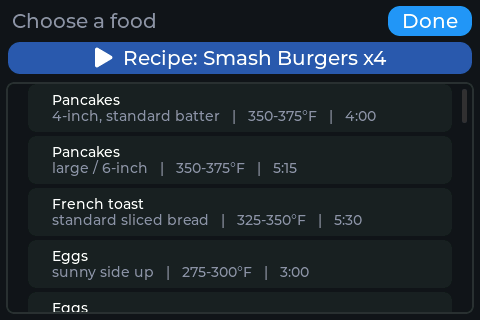
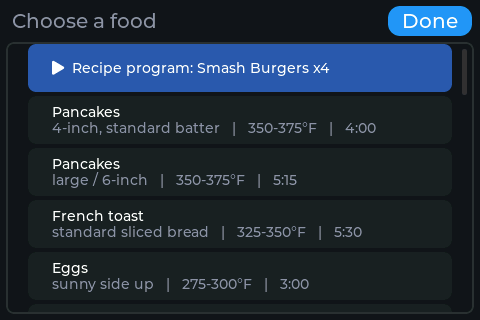
fix: bench UX round — tz picker, stainless is a pan not a preset, foods page
Three live bench critiques from James on the first hardware session:

- Time zone picker: the tap-to-cycle row inside a scrollable list was flaky
  (taps kept registering as scroll-drags across 12 zones). The row now opens
  a dedicated scrollable picker list (current zone highlighted + check-
  marked); tap a zone to set it and return. settings_cycle_timezone ->
  settings_set_timezone(idx).
- "Stainless" preset removed: stainless is a PAN MATERIAL, not a food
  target — any preset may be cooked on stainless (design decision, spec
  overridden by its owner). Replaced with a persisted global "Stainless
  pan" Settings toggle that ORs into the same trend-only/alarm-suppression
  logic as the per-frame reflective auto-detection (both zones). Built-in
  presets are now Eggs/Pancakes/Sear/Tortillas/Generic; a stale persisted
  index falls back to Generic; HA discovery options updated; custom presets
  keep their per-preset stainless flag.
- Foods page: the permanent blue "Smash Burgers x4" button pinned above the
  list read as a confusing separate band. The built-in recipe PROGRAM is now
  the first (blue) row of the same scrollable list, labelled "Recipe
  program:" to distinguish it from the single-food timers below.

129 native tests pass (stainless preset test rewritten for the new model);
sim + advance + basic build; settings/presets/foods screenshots regenerated;
flashed to the bench board.

Claude-Session: https://claude.ai/code/session_01RZgXXJNRojspsZJoAMRRin

diff --git a/src/ui/screen_settings.cpp b/src/ui/screen_settings.cpp
@@ -13,14 +13,78 @@ lv_obj_t* s_val_unit = nullptr;
 lv_obj_t* s_val_sound = nullptr;
 lv_obj_t* s_val_bright = nullptr;
 lv_obj_t* s_val_tz = nullptr;
+lv_obj_t* s_val_stainless = nullptr;
+
+// Time-zone picker (own screen): a tap-to-cycle row inside a scrollable list
+// was bench-found flaky — taps kept registering as scroll-drags. The row now
+// opens a plain scrollable list to pick from (current zone checkmarked).
+lv_obj_t* s_tz_screen = nullptr;
+lv_obj_t* s_tz_list = nullptr;
+uint8_t s_tz_current = 0;
 
 void done_cb(lv_event_t*) { ui::show_home(); }
 void unit_cb(lv_event_t*) { ui::settings_toggle_unit(); }
 void sound_cb(lv_event_t*) { ui::settings_toggle_mute(); }
 void bright_cb(lv_event_t*) { ui::settings_cycle_brightness(); }
-void tz_cb(lv_event_t*) { ui::settings_cycle_timezone(); }
+void stainless_cb(lv_event_t*) { ui::settings_toggle_stainless(); }
 void assist_cb(lv_event_t*) { ui::show_assist_arm(); }
 void autotune_cb(lv_event_t*) { ui::show_autotune(); }
+
+void tz_pick_cb(lv_event_t* e) {
+  ui::settings_set_timezone((uint8_t)(uintptr_t)lv_event_get_user_data(e));
+  lv_scr_load(s_screen);            // back to Settings, new zone shown
+}
+void tz_back_cb(lv_event_t*) { lv_scr_load(s_screen); }
+
+void tz_picker_build();             // fwd
+void tz_cb(lv_event_t*) {           // the Settings row opens the picker
+  tz_picker_build();
+  lv_scr_load(s_tz_screen);
+}
+
+void tz_picker_build() {
+  if (!s_tz_screen) {
+    s_tz_screen = lv_obj_create(nullptr);
+    lv_obj_set_style_bg_color(s_tz_screen, lv_color_hex(0x101418), LV_PART_MAIN);
+    lv_obj_clear_flag(s_tz_screen, LV_OBJ_FLAG_SCROLLABLE);
+
+    lv_obj_t* title = lv_label_create(s_tz_screen);
+    lv_label_set_text(title, "Time zone");
+    lv_obj_set_style_text_font(title, &lv_font_montserrat_20, 0);
+    lv_obj_set_style_text_color(title, lv_color_hex(0x8A93A0), 0);
+    lv_obj_align(title, LV_ALIGN_TOP_LEFT, 12, 10);
+
+    lv_obj_t* back = lv_btn_create(s_tz_screen);
+    lv_obj_set_size(back, 84, 30);
+    lv_obj_align(back, LV_ALIGN_TOP_RIGHT, -8, 6);
+    lv_obj_add_event_cb(back, tz_back_cb, LV_EVENT_CLICKED, nullptr);
+    lv_obj_t* bl = lv_label_create(back);
+    lv_label_set_text(bl, "Back");
+    lv_obj_center(bl);
+
+    s_tz_list = lv_list_create(s_tz_screen);
+    lv_obj_set_size(s_tz_list, 468, 272);
+    lv_obj_align(s_tz_list, LV_ALIGN_BOTTOM_MID, 0, -4);
+    lv_obj_set_style_bg_color(s_tz_list, lv_color_hex(0x101418), 0);
+    lv_obj_set_style_pad_row(s_tz_list, 4, 0);
+  }
+  lv_obj_clean(s_tz_list);          // rebuild so the checkmark tracks current
+  for (int i = 0; i < tz_count(); ++i) {
+    lv_obj_t* row = lv_btn_create(s_tz_list);
+    lv_obj_set_width(row, lv_pct(100));
+    lv_obj_set_height(row, 44);
+    const bool cur = (i == (int)s_tz_current);
+    lv_obj_set_style_bg_color(row, lv_color_hex(cur ? 0x2E5AAC : 0x1A2027), 0);
+    lv_obj_set_style_radius(row, 8, 0);
+    lv_obj_add_event_cb(row, tz_pick_cb, LV_EVENT_CLICKED, (void*)(uintptr_t)i);
+    lv_obj_t* l = lv_label_create(row);
+    char b[40];
+    lv_snprintf(b, sizeof(b), "%s%s", cur ? LV_SYMBOL_OK "  " : "", tz_name(i));
+    lv_label_set_text(l, b);
+    lv_obj_set_style_text_font(l, &lv_font_montserrat_20, 0);
+    lv_obj_align(l, LV_ALIGN_LEFT_MID, 8, 0);
+  }
+}
 
 // One "Label ............ value" row (added to a scroll container) that fires cb
 // on tap. Returns the value label so settings_update() can refresh it.
@@ -81,6 +145,9 @@ lv_obj_t* settings_create() {
   s_val_unit = mk_row(list, "Temperature", unit_cb);
   s_val_sound = mk_row(list, "Sound", sound_cb);
   s_val_bright = mk_row(list, "Brightness", bright_cb);
+  // Pan material, not a preset (design decision 2026-07-11): applies to every
+  // preset/food; ORed with the reflective-stainless auto-detection.
+  s_val_stainless = mk_row(list, "Stainless pan", stainless_cb);
   s_val_tz = mk_row(list, "Time zone", tz_cb);
 #if defined(ENABLE_WIFI) || defined(PANPILOT_SIM)
   // Autopilot + autotune need the MQTT actuator — no point offering them (or
@@ -95,12 +162,14 @@ lv_obj_t* settings_create() {
 }
 
 void settings_update(bool useF, bool muted, uint8_t brightnessLevel,
-                     uint8_t tzIndex) {
+                     uint8_t tzIndex, bool stainlessPan) {
   if (!s_screen) settings_create();
+  s_tz_current = tzIndex;
   lv_label_set_text(s_val_unit, useF ? "\xC2\xB0" "F" : "\xC2\xB0" "C");
   lv_label_set_text(s_val_sound, muted ? "Muted" : "On");
   lv_label_set_text(s_val_bright, panpilot::brightness_name(brightnessLevel));
   lv_label_set_text(s_val_tz, tz_name(tzIndex));
+  lv_label_set_text(s_val_stainless, stainlessPan ? "Yes" : "No");
 }
 
 }  // namespace ui

diff --git a/src/ui/screen_foods.cpp b/src/ui/screen_foods.cpp
@@ -40,22 +40,30 @@ lv_obj_t* foods_create() {
   lv_label_set_text(dl, "Done");
   lv_obj_center(dl);
 
-  // Recipe entry (M19) — its own full-width row below the header (no overlap).
-  lv_obj_t* rec = lv_btn_create(scr);
-  lv_obj_set_size(rec, 464, 32);
-  lv_obj_align(rec, LV_ALIGN_TOP_MID, 0, 42);
-  lv_obj_set_style_bg_color(rec, lv_color_hex(0x2E5AAC), 0);
-  lv_obj_add_event_cb(rec, recipe_cb, LV_EVENT_CLICKED, nullptr);
-  lv_obj_t* rl = lv_label_create(rec);
-  lv_label_set_text(rl, LV_SYMBOL_PLAY "  Recipe: Smash Burgers x4");
-  lv_obj_center(rl);
-
   // Scrollable food list — two-line rows so nothing truncates.
   lv_obj_t* list = lv_list_create(scr);
-  lv_obj_set_size(list, 468, 232);
+  lv_obj_set_size(list, 468, 272);
   lv_obj_align(list, LV_ALIGN_BOTTOM_MID, 0, -6);
   lv_obj_set_style_bg_color(list, lv_color_hex(0x101418), 0);
   lv_obj_set_style_pad_row(list, 4, 0);
+
+  // The built-in recipe PROGRAM (M19) is the first row of the same list —
+  // visually distinct (blue) but scrolls with everything else. It used to be
+  // a permanent button pinned above the list, which read as a separate,
+  // confusing UI band (bench feedback). Foods below it are single-food
+  // timers; this row runs the multi-step sequencer.
+  {
+    lv_obj_t* row = lv_btn_create(list);
+    lv_obj_set_width(row, lv_pct(100));
+    lv_obj_set_height(row, 48);
+    lv_obj_set_style_bg_color(row, lv_color_hex(0x2E5AAC), 0);
+    lv_obj_set_style_radius(row, 8, 0);
+    lv_obj_add_event_cb(row, recipe_cb, LV_EVENT_CLICKED, nullptr);
+    lv_obj_t* rl = lv_label_create(row);
+    lv_label_set_text(rl, LV_SYMBOL_PLAY "  Recipe program: Smash Burgers x4");
+    lv_obj_set_style_text_font(rl, &lv_font_montserrat_14, 0);
+    lv_obj_align(rl, LV_ALIGN_LEFT_MID, 4, 0);
+  }
 
   for (int i = 0; i < foodlib_count(); ++i) {
     const FoodEntry& f = foodlib_entry(i);

diff --git a/src/main.cpp b/src/main.cpp
@@ -75,6 +75,16 @@ volatile bool g_pluginWarn = false;
 // into UiState and by the UI loop to pick the ACTIVE-state PWM.
 volatile uint8_t g_bright = 2;
 
+// Global "stainless pan" toggle (Settings). Pan material, not a preset: it
+// feeds the same trend-only/alarm-suppression logic as the per-frame
+// reflective-stainless auto-detection, for cooks who use stainless for
+// everything. Persisted.
+volatile bool g_stainlessPan = false;
+void on_stainless(bool on) {
+  g_stainlessPan = on;
+  hal::storage_set_stainless(on);
+}
+
 // NTP clock (Settings). g_tz indexes TIMEZONES; the clock is read in the UI loop.
 volatile uint8_t g_tz = 0;
 volatile bool g_timeValid = false;
@@ -345,6 +355,7 @@ void SensorTask(void*) {
     }
     u.muted = hal::buzzer_is_muted();
     u.brightnessLevel = g_bright;
+    u.stainlessPan = g_stainlessPan;
     u.tzIndex = g_tz;
     u.timeValid = g_timeValid;
     u.clockHour = g_clockH; u.clockMin = g_clockM;
@@ -408,7 +419,8 @@ void SensorTask(void*) {
       gi.confidence = r.confidence;
       gi.presence = r.presence;
       gi.moved = r.moved;
-      gi.stainlessHint = r.stainlessHint;   // suppress reflective misread alarms
+      // Auto-detected reflective read OR the user's global stainless toggle.
+      gi.stainlessHint = r.stainlessHint || g_stainlessPan;
       gi.lagMinutes = g_applied_lag;    // learned lag (Learn Pan Mode)
       GuidanceOutput go = guidance.step(gi, target, millis());
       // Alerts are routed through the attention manager in the UI loop (§3.5).
@@ -500,7 +512,7 @@ void SensorTask(void*) {
         gi2.confidence = zt[1].confidence;
         gi2.presence = zt[1].presence;
         gi2.moved = zt[1].moved;
-        gi2.stainlessHint = zt[1].stainlessHint;   // zone-2 TOO_HOT suppression
+        gi2.stainlessHint = zt[1].stainlessHint || g_stainlessPan;
         gi2.lagMinutes = g_applied_lag;
         z2g = guidance2.step(gi2, target2, nowm).state;
         z2temp = model2.displayTempC();
@@ -669,7 +681,8 @@ void SensorTask(void*) {
       u.trend = model.trend();
       u.confidence = r.confidence;
       u.moved = r.moved;
-      u.stainlessHint = r.stainlessHint;
+      u.stainlessHint = r.stainlessHint || g_stainlessPan;
+      u.stainlessPan = g_stainlessPan;
       u.muted = hal::buzzer_is_muted();
       u.brightnessLevel = g_bright;
       u.tzIndex = g_tz;
@@ -896,6 +909,7 @@ void setup() {
 #endif
   g_bright = panpilot::brightness_clamp(hal::storage_get_brightness());
   g_tz = (uint8_t)tz_clamp(hal::storage_get_timezone());
+  g_stainlessPan = hal::storage_get_stainless();
   { uint8_t fbBlob[panpilot::FeedbackStore::MAX * 8];
     uint32_t n = hal::storage_get_foodfb(fbBlob, sizeof(fbBlob));
     if (n > 0) { g_feedback.loadBlob(fbBlob, n);
@@ -906,7 +920,7 @@ void setup() {
       Serial.printf("[presets] loaded %d custom\n", presets_custom_count()); } }
   ui::root_init(hal::storage_get_unit_useF(), persist_unit, on_target_delta,
                 on_preset, on_learn, on_food, on_preset2, on_recipe);
-  ui::set_settings_cbs(on_mute, on_brightness, on_timezone);
+  ui::set_settings_cbs(on_mute, on_brightness, on_timezone, on_stainless);
   ui::set_food2_cb(on_food2);
   ui::set_feedback_cb(on_feedback);
   ui::set_preset_edit_cbs(on_preset_save, on_preset_delete);

diff --git a/src/ui/ui_root.cpp b/src/ui/ui_root.cpp
@@ -42,6 +42,7 @@ bool s_useF = true;
 bool s_muted = false;        // cached from the per-tick snapshot for Settings
 uint8_t s_bright = 2;
 uint8_t s_tz = 0;
+bool s_stainless = false;
 UnitChangeCb s_unitCb = nullptr;
 TargetDeltaCb s_targetCb = nullptr;
 PresetCb s_presetCb = nullptr;
@@ -54,6 +55,7 @@ RecipeCb s_recipeCb = nullptr;
 MuteCb s_muteCb = nullptr;
 BrightnessCb s_brightCb = nullptr;
 TimezoneCb s_tzCb = nullptr;
+StainlessCb s_stainlessCb = nullptr;
 FeedbackCb s_feedbackCb = nullptr;
 PresetSaveCb s_presetSaveCb = nullptr;
 PresetDeleteCb s_presetDelCb = nullptr;
@@ -68,7 +70,9 @@ enum Active { HOME, THERMAL, PRESETS, IDLE_SCREEN, LEARN, LASTCOOK, FOODS,
               SETTINGS, PRESET_EDIT, ASSIST, ONBOARDING, AUTOTUNE,
               PROFILES } s_active = HOME;
 
-void settings_refresh() { settings_update(s_useF, s_muted, s_bright, s_tz); }
+void settings_refresh() {
+  settings_update(s_useF, s_muted, s_bright, s_tz, s_stainless);
+}
 }  // namespace
 
 void root_init(bool useF, UnitChangeCb onUnit, TargetDeltaCb onTargetDelta,
@@ -141,10 +145,12 @@ void set_preset_edit_cbs(PresetSaveCb onSave, PresetDeleteCb onDelete) {
 }
 void set_assist_cb(AssistCb onAssist) { s_assistCb = onAssist; }
 
-void set_settings_cbs(MuteCb onMute, BrightnessCb onBrightness, TimezoneCb onTimezone) {
+void set_settings_cbs(MuteCb onMute, BrightnessCb onBrightness, TimezoneCb onTimezone,
+                      StainlessCb onStainless) {
   s_muteCb = onMute;
   s_brightCb = onBrightness;
   s_tzCb = onTimezone;
+  s_stainlessCb = onStainless;
 }
 
 void set_feedback_cb(FeedbackCb onFeedback) { s_feedbackCb = onFeedback; }
@@ -244,10 +250,16 @@ void settings_cycle_brightness() {
   s_bright = nb;
   settings_refresh();
 }
-void settings_cycle_timezone() {
-  const uint8_t nz = (uint8_t)tz_cycle(s_tz);
+void settings_set_timezone(uint8_t idx) {
+  const uint8_t nz = (uint8_t)tz_clamp(idx);
   if (s_tzCb) s_tzCb(nz);
   s_tz = nz;
+  settings_refresh();
+}
+void settings_toggle_stainless() {
+  const bool ns = !s_stainless;
+  if (s_stainlessCb) s_stainlessCb(ns);
+  s_stainless = ns;
   settings_refresh();
 }
 bool unit_useF() { return s_useF; }
@@ -272,6 +284,7 @@ void root_update(const ThermalFrame& f, const PanReading& r, const UiState& s) {
   s_muted = s.muted;                 // keep Settings' cache in sync with device truth
   s_bright = s.brightnessLevel;
   s_tz = s.tzIndex;
+  s_stainless = s.stainlessPan;
   s_assistAvail = s.actuatorAvailable;
   s_actuatorName = s.actuatorName;
   if (s_active == HOME) home_update(s, s_useF);

diff --git a/test/test_presets/test_presets.cpp b/test/test_presets/test_presets.cpp
@@ -25,8 +25,15 @@ static void test_preset_target_mapping(void) {
 }
 
 static void test_stainless_flag(void) {
-  TEST_ASSERT_TRUE(preset(PRESET_STAINLESS).stainlessHints);
-  TEST_ASSERT_FALSE(preset(PRESET_EGGS).stainlessHints);
+  // The built-in "Stainless" preset was removed (pan material != food target;
+  // stainless is now a Settings toggle + auto-detect). No BUILT-IN preset
+  // carries the flag; a CUSTOM preset still can (its editor has the toggle).
+  for (uint8_t id = 0; id < PRESET_COUNT; ++id)
+    TEST_ASSERT_FALSE(preset(id).stainlessHints);
+  presets_load_custom(nullptr, 0);
+  const int id = presets_add("Steel sear", 450, 500, /*stainless*/ true);
+  TEST_ASSERT_TRUE(preset((uint8_t)id).stainlessHints);
+  presets_load_custom(nullptr, 0);
 }
 
 // --- custom presets (Phase 2 editor) ---

diff --git a/src/core/presets.h b/src/core/presets.h
@@ -13,8 +13,13 @@ struct Preset {
 };
 
 // Order is stable (persisted by index). Generic is last.
+// NOTE: the base spec's "Stainless" preset was removed by design decision
+// (2026-07-11): stainless is a PAN MATERIAL, not a food target — it's now a
+// global "Stainless pan" Settings toggle (plus auto-detection), so any preset
+// can be cooked on stainless. A stale persisted index past PRESET_COUNT falls
+// back to Generic.
 enum PresetId : uint8_t {
-  PRESET_EGGS, PRESET_PANCAKES, PRESET_STAINLESS, PRESET_SEAR,
+  PRESET_EGGS, PRESET_PANCAKES, PRESET_SEAR,
   PRESET_TORTILLAS, PRESET_GENERIC, PRESET_COUNT
 };
 

diff --git a/src/ui/ui_root.h b/src/ui/ui_root.h
@@ -19,6 +19,7 @@ using RecipeCb = void (*)(uint8_t cmd);        // 0=start, 1=stop, 2=ack cue
 using MuteCb = void (*)(bool muted);           // Settings: sound on/off
 using BrightnessCb = void (*)(uint8_t level);  // Settings: backlight 0/1/2
 using TimezoneCb = void (*)(uint8_t tzIndex);  // Settings: NTP timezone
+using StainlessCb = void (*)(bool on);         // Settings: global stainless pan
 using FeedbackCb = void (*)(uint8_t verdict);  // post-cook: 0=under,1=perfect,2=over
 // Preset editor (Phase 2). editId < 0 => add a new custom preset.
 using PresetSaveCb = void (*)(int editId, const char* name, int loF, int hiF, bool stainless);
@@ -45,7 +46,8 @@ void show_foods_zone2();    // food picker for the second pan (Phase 3)
 void cook_a_food();   // food picker for whichever pan's preset picker is open
 void show_presets_zone2();  // preset picker that sets zone-2's target (M12)
 void show_settings(); // device Settings (Phase 2)
-void set_settings_cbs(MuteCb onMute, BrightnessCb onBrightness, TimezoneCb onTimezone);
+void set_settings_cbs(MuteCb onMute, BrightnessCb onBrightness, TimezoneCb onTimezone,
+                      StainlessCb onStainless);
 void set_food2_cb(FoodCb onFood2);   // second-pan food selection (Phase 3)
 void set_feedback_cb(FeedbackCb onFeedback);
 void food_feedback(uint8_t verdict);   // fires FeedbackCb (0=under,1=perfect,2=over)
@@ -70,7 +72,8 @@ void profile_cmd(uint8_t cmd, int idx); // fires ProfileCb (0=activate,1=delete)
 void settings_toggle_unit();       // fires UnitChangeCb + refreshes Settings
 void settings_toggle_mute();       // fires MuteCb + refreshes Settings
 void settings_cycle_brightness();  // fires BrightnessCb + refreshes Settings
-void settings_cycle_timezone();    // fires TimezoneCb + refreshes Settings
+void settings_set_timezone(uint8_t idx);  // from the tz picker list (absolute)
+void settings_toggle_stainless();  // fires StainlessCb + refreshes Settings
 void toggle_unit();
 void set_display_unit(bool useF);   // set unit directly (onboarding); fires UnitChangeCb
 bool unit_useF();

diff --git a/src/core/app_state.h b/src/core/app_state.h
@@ -30,6 +30,9 @@ struct UiState {
   bool  useF = true;        // display unit (persisted, base spec §4)
   bool  muted = false;
   uint8_t brightnessLevel = 2;  // 0=Low,1=Medium,2=High (Settings, persisted)
+  bool stainlessPan = false;    // global "stainless pan" toggle (Settings) —
+                                // pan material, not a preset; ORed with the
+                                // per-frame reflective-stainless detection
 
   // NTP clock (Settings). timeValid=false until SNTP syncs (or no Wi-Fi).
   uint8_t tzIndex = 0;      // index into TIMEZONES

diff --git a/src/sim_main.cpp b/src/sim_main.cpp
@@ -125,7 +125,8 @@ int main(int argc, char** argv) {
     lv_scr_load(ui::foods_create());
   } else if (scene == "settings") {
     lv_scr_load(ui::settings_create());
-    ui::settings_update(/*useF=*/true, /*muted=*/false, /*brightness=*/2, /*tz=*/5);
+    ui::settings_update(/*useF=*/true, /*muted=*/false, /*brightness=*/2, /*tz=*/5,
+                        /*stainless=*/false);
   } else if (scene == "presetedit") {
     lv_scr_load(ui::preset_edit_create());
     ui::preset_edit_load("Smash burger", 450, 500, false, /*canDelete=*/false);

diff --git a/src/hal/storage.cpp b/src/hal/storage.cpp
@@ -25,6 +25,8 @@ bool storage_get_onboarded(bool def) { ensure(); return s_prefs.getBool("onboard
 void storage_set_onboarded(bool done) { ensure(); s_prefs.putBool("onboard", done); }
 int storage_get_timezone(int def) { ensure(); return s_prefs.getInt("tz", def); }
 void storage_set_timezone(int idx) { ensure(); s_prefs.putInt("tz", idx); }
+bool storage_get_stainless(bool def) { ensure(); return s_prefs.getBool("stainless", def); }
+void storage_set_stainless(bool on) { ensure(); s_prefs.putBool("stainless", on); }
 bool storage_get_gains(float& kp, float& ki, float& kd) {
   ensure();
   float g[3];

diff --git a/src/hal/storage.h b/src/hal/storage.h
@@ -19,6 +19,8 @@ bool storage_get_onboarded(bool def = false);     // first-boot wizard completed
 void storage_set_onboarded(bool done);
 int  storage_get_timezone(int def = 0);           // index into TIMEZONES (NTP clock)
 void storage_set_timezone(int idx);
+bool storage_get_stainless(bool def = false);     // global "stainless pan" toggle
+void storage_set_stainless(bool on);
 bool storage_get_gains(float& kp, float& ki, float& kd);  // PID autotune result
 void storage_set_gains(float kp, float ki, float kd);
 // Target band + last preset (base spec §7.3, §10).

diff --git a/src/net/ha.cpp b/src/net/ha.cpp
@@ -92,7 +92,7 @@ void publishDiscovery() {
         String("{\"name\":\"Preset\",\"stat_t\":\"") + STATE + "\",\"avty_t\":\"" +
             AVTY + "\",\"cmd_t\":\"" + PRESET_SET +
             "\",\"uniq_id\":\"pp_preset\",\"val_tpl\":\"{{ value_json.preset }}\","
-            "\"options\":[\"Eggs\",\"Pancakes\",\"Stainless\",\"Sear\","
+            "\"options\":[\"Eggs\",\"Pancakes\",\"Sear\","
             "\"Tortillas\",\"Generic\"]," + DEV + "}");
 }
 